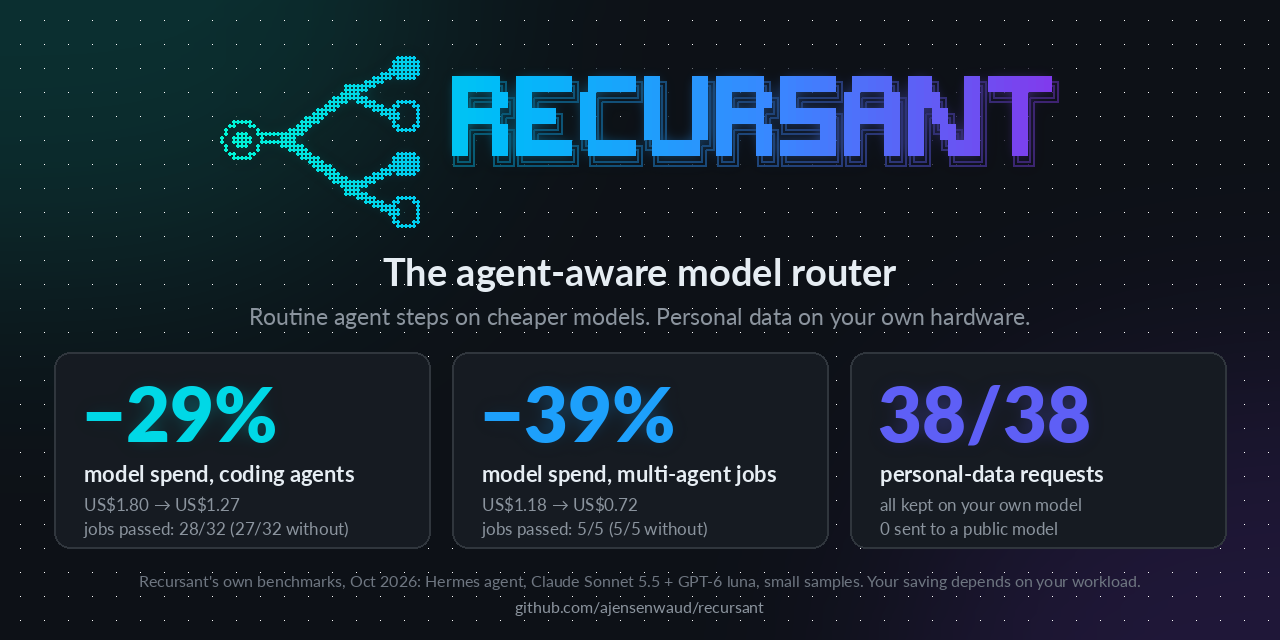
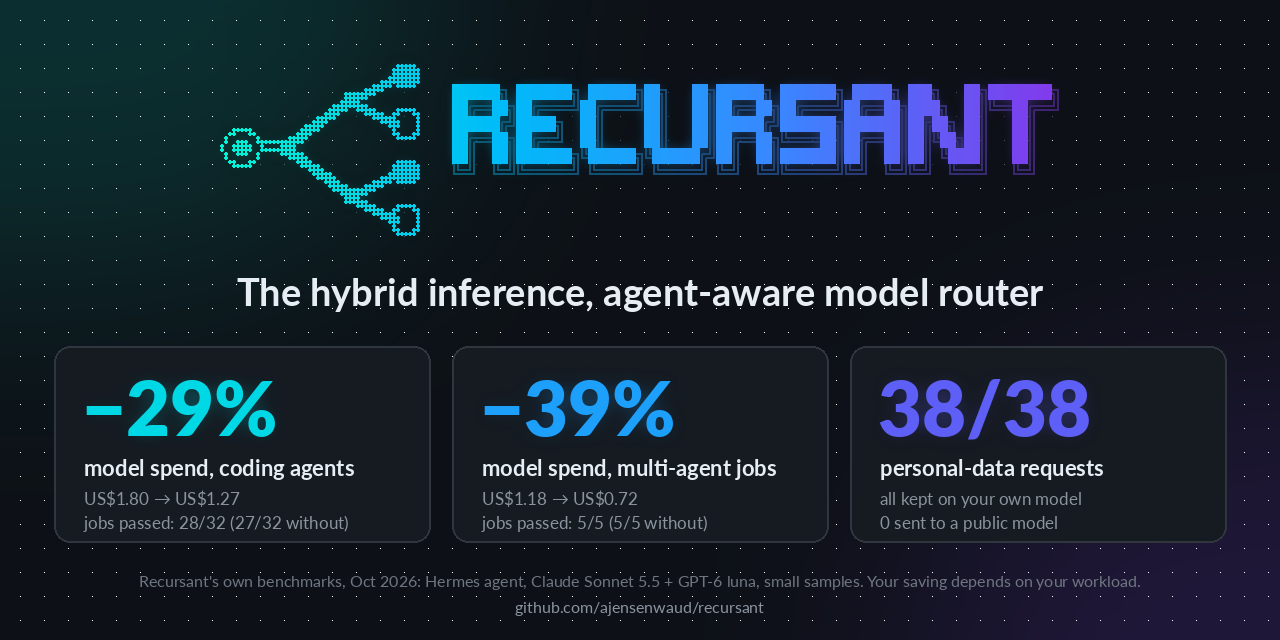
brand: social card headline 'The hybrid inference, agent-aware model router'; drop subtitle

diff --git a/tools/logo.py b/tools/logo.py
@@ -277,25 +277,23 @@ def write_social(path):
             g.point((x, y), fill=(255, 255, 255, 9))
 
     logo = render_logo(cw=8, tagline=False)
-    img.alpha_composite(logo, ((W - logo.width) // 2, 44))
+    img.alpha_composite(logo, ((W - logo.width) // 2, 52))
 
     lato = "/usr/share/fonts/truetype/lato/Lato-{}.ttf"
     mono = "/usr/share/fonts/truetype/dejavu/DejaVuSansMono.ttf"
     head = ImageFont.truetype(lato.format("Bold"), 38)
-    sub = ImageFont.truetype(lato.format("Regular"), 23)
     big = ImageFont.truetype(lato.format("Black"), 76)
     label = ImageFont.truetype(lato.format("Bold"), 22)
     detail = ImageFont.truetype(lato.format("Regular"), 17)
     small = ImageFont.truetype(lato.format("Regular"), 16)
 
-    y = 44 + logo.height + 22
-    g.text((W // 2, y), "The agent-aware model router", font=head, fill=(230, 237, 243), anchor="mt")
-    g.text((W // 2, y + 50), "Routine agent steps on cheaper models. Personal data on your own hardware.",
-           font=sub, fill=(139, 148, 158), anchor="mt")
+    y = 52 + logo.height + 34
+    g.text((W // 2, y), "The hybrid inference, agent-aware model router", font=head,
+           fill=(230, 237, 243), anchor="mt")
 
     tw, th, gap = 376, 196, 22
     x = (W - 3 * tw - 2 * gap) // 2
-    ty = 352
+    ty = 346
     for i, (num, what, how, _src) in enumerate(STATS):
         tx = x + i * (tw + gap)
         g.rounded_rectangle((tx, ty, tx + tw, ty + th), radius=16, fill=(22, 27, 34, 235),
